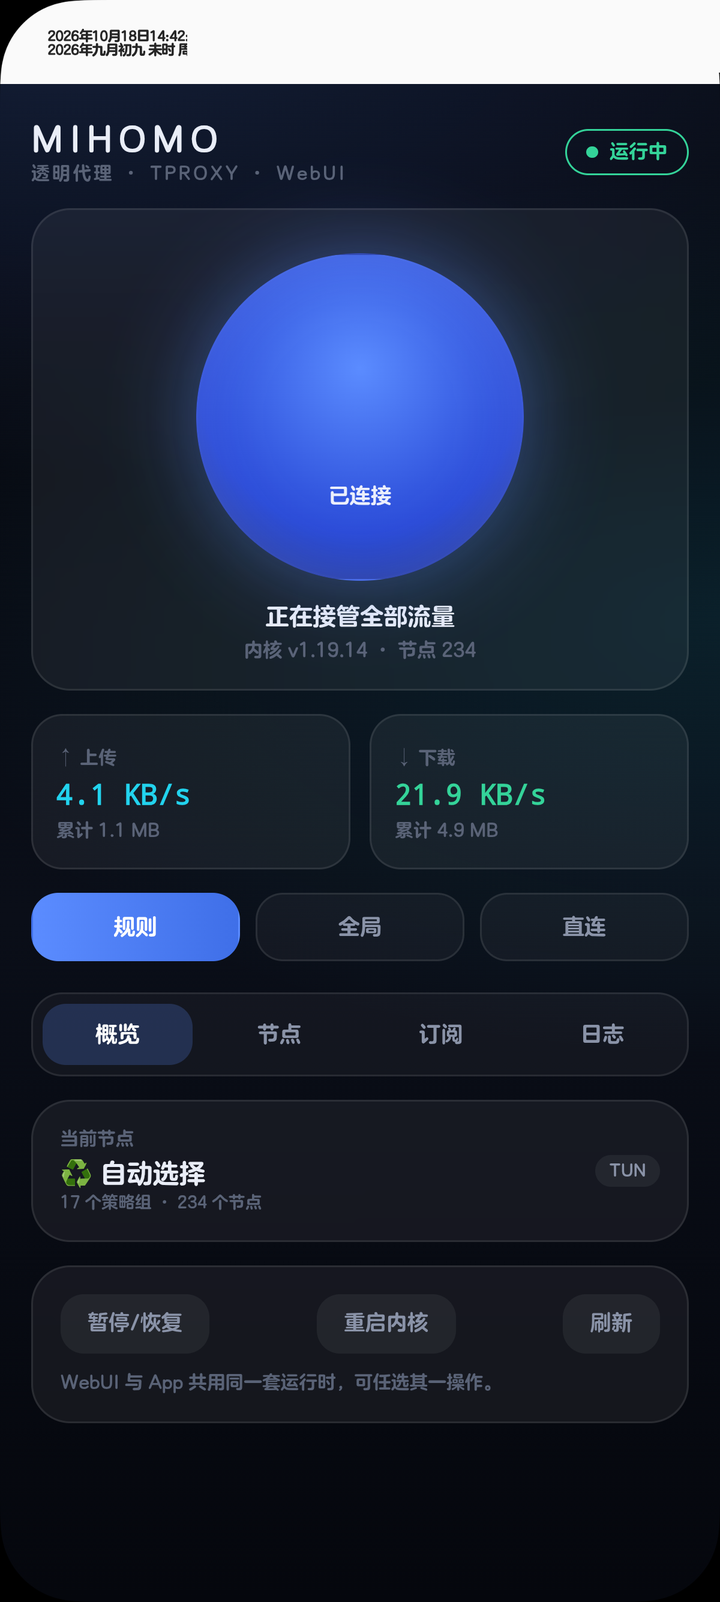
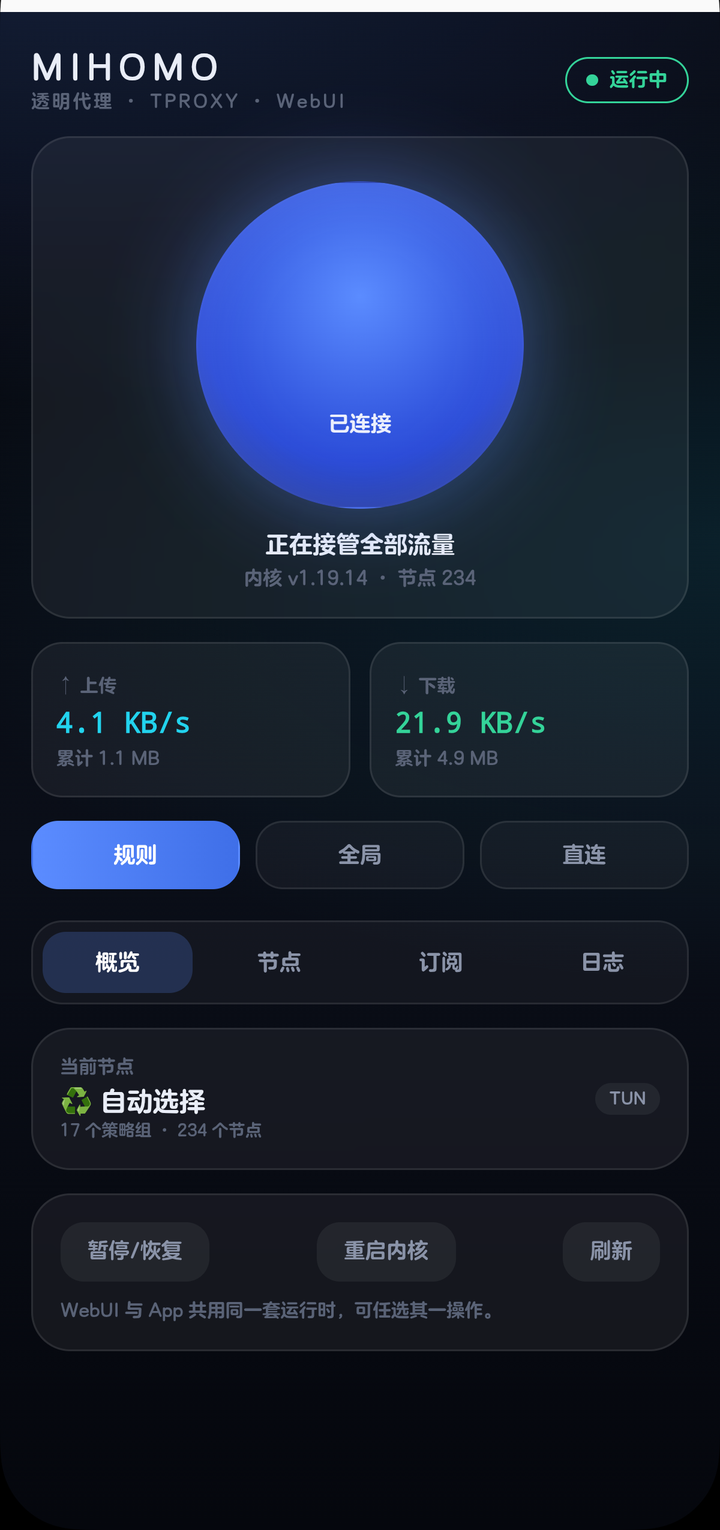
chore: rename project to TunClash; trim screenshots

diff --git a/README.md b/README.md
@@ -1,7 +1,7 @@
-# Mihomo 透明代理 · Mihomo TProxy
+# TunClash · mihomo 透明代理
 
-[![CI](https://github.com/De4869/mihomo-tproxy/actions/workflows/ci.yml/badge.svg)](https://github.com/De4869/mihomo-tproxy/actions/workflows/ci.yml)
-[![Release](https://img.shields.io/github/v/release/De4869/mihomo-tproxy)](https://github.com/De4869/mihomo-tproxy/releases)
+[![CI](https://github.com/De4869/tunclash/actions/workflows/ci.yml/badge.svg)](https://github.com/De4869/tunclash/actions/workflows/ci.yml)
+[![Release](https://img.shields.io/github/v/release/De4869/tunclash)](https://github.com/De4869/tunclash/releases)
 ![Android](https://img.shields.io/badge/Android-8.0%2B-3ddc84)
 ![License](https://img.shields.io/badge/license-MIT-blue)
 
@@ -89,7 +89,7 @@ App 仍然是控制面板；两者共用同一套运行时目录。
 - **设置 → 分应用代理**：黑名单=选中的应用直连；白名单=只有选中的应用走代理。走的是 `PROCESS-NAME` 规则，改完热重载。
 - **设置 → 广告拦截**：加入 `GEOSITE,category-ads-all,REJECT` 规则。
 - **首页 → 检测**：一键测 10 个常用平台（走当前节点，超时 6 秒），结果直接显示每个平台是否可用和延迟。
-- **设置 → 开机自启**：写入 `/data/adb/service.d/99-mihomo-tproxy.sh`。
+- **设置 → 开机自启**：写入 `/data/adb/service.d/99-tunclash.sh`。
 
 ## 5. 技术方案（为什么这样能连上）
 
@@ -142,7 +142,7 @@ cd Android && ./gradlew assembleDebug
 在。内核是 root 进程，App 被杀不影响；重新打开 App 会通过 API 读到运行状态。
 
 **Q：怎么彻底卸载？**
-App 内「设置 → 停止内核」，然后 `adb shell su -c "rm -rf /data/adb/mihomo_tproxy /data/adb/service.d/99-mihomo-tproxy.sh"`，再卸载 App。
+App 内「设置 → 停止内核」，然后 `adb shell su -c "rm -rf /data/adb/mihomo_tproxy /data/adb/service.d/99-tunclash.sh"`，再卸载 App。
 
 ## 8. 已知限制
 

diff --git a/CHANGELOG.md b/CHANGELOG.md
@@ -1,5 +1,11 @@
 # Changelog
 
+## v1.2.1
+
+- 项目更名为 **TunClash**（仓库地址同步更新）
+- 演示截图裁掉状态栏，只保留界面本身
+
+
 ## v1.2.0
 
 - 新增「外观」设置：跟随系统 / 深色 / 浅色，浅色模式下状态栏图标同步切换
